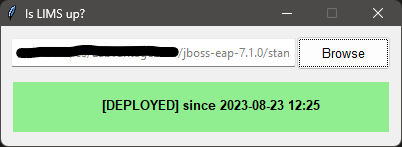
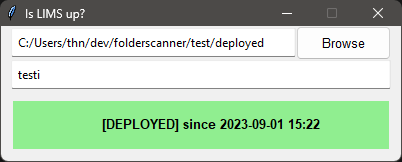
updated the README to reflect the new version

diff --git a/README.md b/README.md
@@ -1,5 +1,25 @@
 # folderscanner (is_deployed)
 
+## Patchnotes
+
+### 01.09.2023 Version a_3
+
+- Added a field to input a specific filename, you're looking for.
+  - For example if the url is "C:\Users\user\Desktop" and the filename is "test", User desktop will be scanned for:
+    - test.deployed
+    - test.isdeploying
+    - test.failed
+- Added a config file to save earlier folder and filename.
+- Added a sound for moving from status to another.
+  - From any status to [Deployed], smooth ping.
+  - From any status to any, alert sound.
+  - Mute feature incoming...
+- Added info message that pops up during first startup.
+  - Can be disabled by clicking "No".
+  - If disabled, can be shown again by clicking the status area.
+
+## Introduction
+
 The **Is Deployed** is a simple GUI application built using Python's Tkinter library. It allows users to check the status of a specified folder and visually displays whether the folder contains specific files indicating deployment status.
 
 - .deployed
@@ -9,7 +29,10 @@ The **Is Deployed** is a simple GUI application built using Python's Tkinter lib
   - The status area will be yellow and have text [DEPLOYING]
 
 - when neither is found
-  - The status area will be red and have text [DOWN]
+  - The status area will be light red and have text [DOWN]
+
+- when .failed is found
+  - The status area will be red and have text [FAILED]
 
 ### Images
 
@@ -20,11 +43,28 @@ Starting the app<br>
 Deployed status<br>
 ![deployed](https://github.com/Mintakai/folderscanner/blob/main/docimg/deployed.png)
 
+Isdeploying status<br>
+![isdeploying](https://github.com/Mintakai/folderscanner/blob/main/docimg/isdeploying.png)
+
+Down status<br>
+![down](https://github.com/Mintakai/folderscanner/blob/main/docimg/down.png)
+
+Failed status<br>
+![failed](https://github.com/Mintakai/folderscanner/blob/main/docimg/failed.png)
+
+Info message<br>
+(You can click "No" to stop showing this at startup.
+Clicking on the status bar will pop this up at any time.)
+![info](https://github.com/Mintakai/folderscanner/blob/main/docimg/info.png)
+
 ## Features
 
 - Check the deployment status of a specified folder.
 - Visual indication of deployment status through background colors and status text.
 - Timestamp display of the last change in status.
+- Remember your earlier folder and filename.
+- Play a sound when status changes.
+- Info message at first startup (And concurrent ones, if not disabled).
 
 ## Usage
 
@@ -48,7 +88,7 @@ Deployed status<br>
 3. Make sure you have pyinstaller installed
 
    ```
-   
+
    pip install pyinstaller
 
    ```
@@ -56,12 +96,13 @@ Deployed status<br>
 
    ```
 
-   pyinstaller --onefile --noconsole .\is_deployed.py
+   pyinstaller --onefile --noconsole --add-data "sfx\ok.mp3;sfx" --add-data "sfx\error.mp3;sfx" .\is_deployed.py
 
    ```
 
 - onefile: Generate a single standalone executable file.
 - noconsole: Do not display a console window when the executable is run.
+- add-data: Bundle the sfx files with the executable.
 
 The built executable will be found in the dist directory.
 
